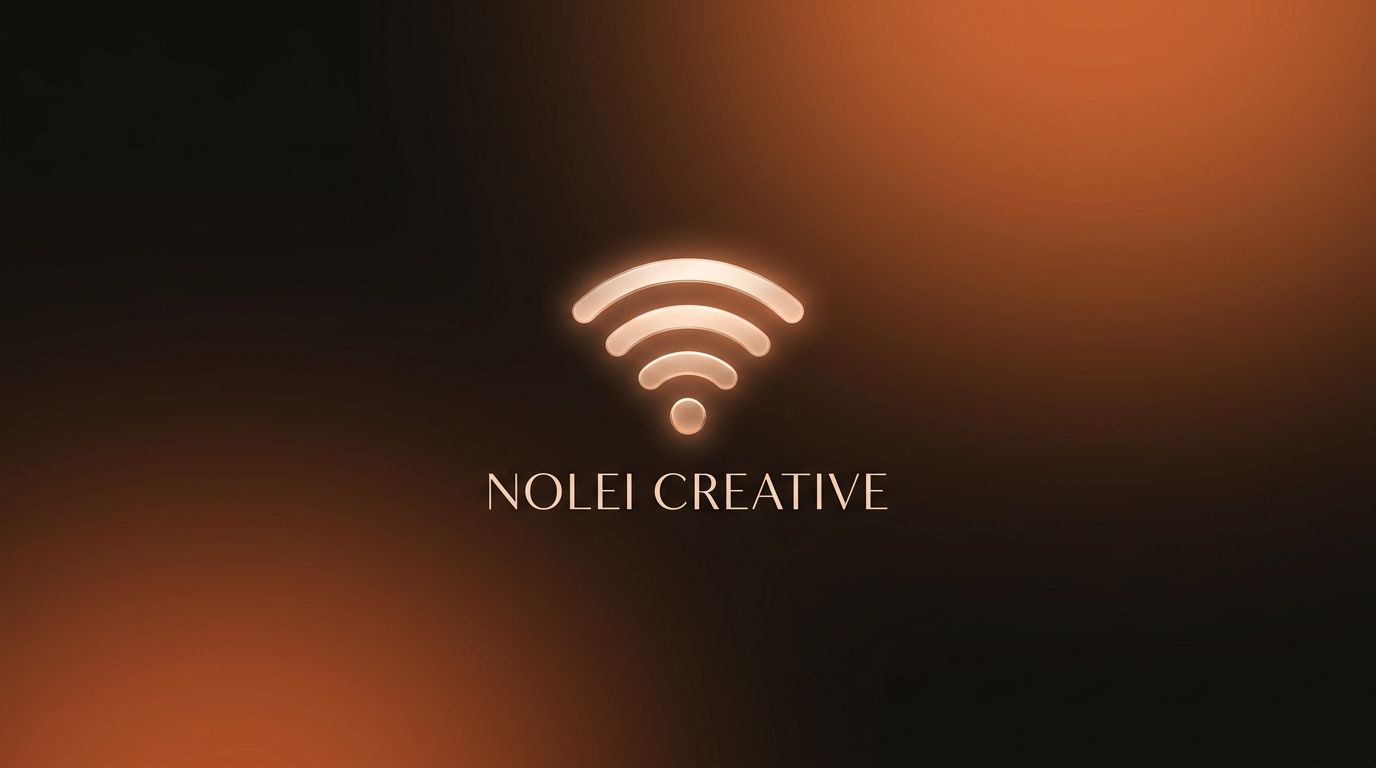
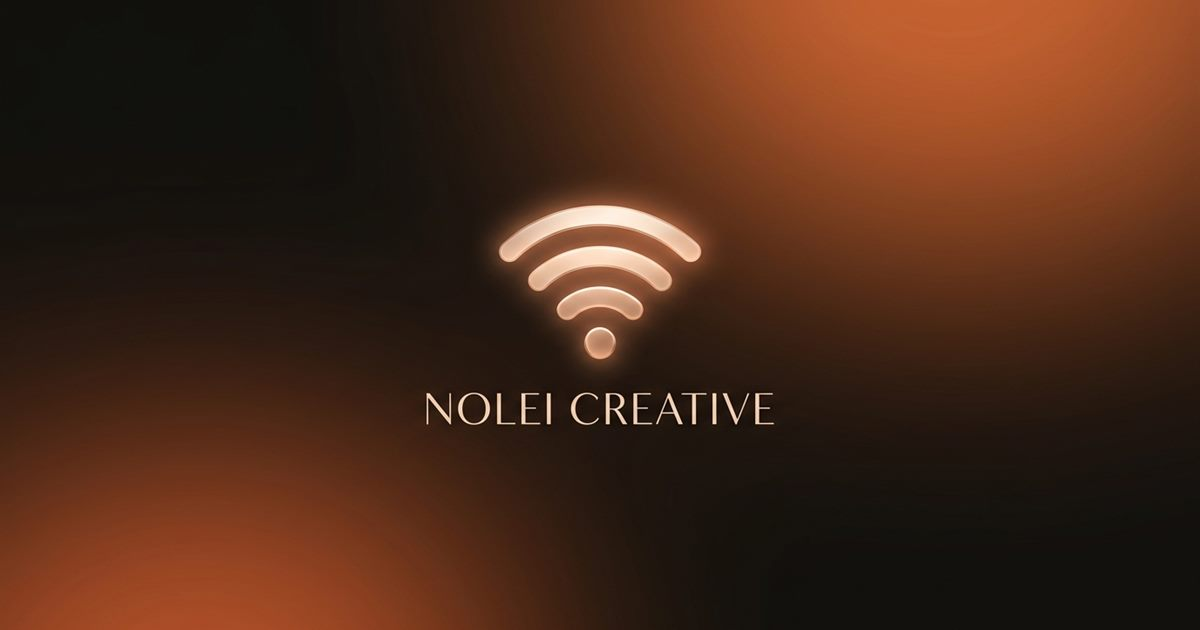
fix: otimizar imagens OG para <150KB compativel com WhatsApp e atualizar hero image de storytelling

Changed region(s): [[0.3392, 0.6032, 0.6475, 0.6937], [0.4008, 0.3016, 0.5858, 0.4825], [0.4933, 0.5127, 0.5242, 0.573]]

diff --git a/demo/storytelling-artesanato.html b/demo/storytelling-artesanato.html
@@ -19,8 +19,8 @@
   <meta property="og:url" content="https://nolei-creative-nfc.vercel.app/demo/storytelling-artesanato.html">
   <meta property="og:title" content="🧵 Storytelling da Peça & Certificado de Autenticidade — Ateliê Raízes do Cariri | Nolei NFC">
   <meta property="og:description" content="Aproxime da tag costurada na peça: conheça a história do mestre artesão, fotos do processo produtivo em couro legítimo e certificado digital numerado.">
-  <meta property="og:image" content="https://nolei-creative-nfc.vercel.app/assets/images/tag-couro-artesanato.jpg">
-  <meta property="og:image:secure_url" content="https://nolei-creative-nfc.vercel.app/assets/images/tag-couro-artesanato.jpg">
+  <meta property="og:image" content="https://nolei-creative-nfc.vercel.app/assets/images/tag-couro-artesanato.jpg?v=2">
+  <meta property="og:image:secure_url" content="https://nolei-creative-nfc.vercel.app/assets/images/tag-couro-artesanato.jpg?v=2">
   <meta property="og:image:type" content="image/jpeg">
   <meta property="og:image:width" content="1200">
   <meta property="og:image:height" content="630">
@@ -33,7 +33,13 @@
   <meta name="twitter:url" content="https://nolei-creative-nfc.vercel.app/demo/storytelling-artesanato.html">
   <meta name="twitter:title" content="🧵 Storytelling da Peça & Certificado de Autenticidade — Ateliê Raízes do Cariri | Nolei NFC">
   <meta name="twitter:description" content="Aproxime da tag costurada na peça: conheça a história do mestre artesão, fotos do processo produtivo em couro legítimo e certificado digital numerado.">
-  <meta name="twitter:image" content="https://nolei-creative-nfc.vercel.app/assets/images/tag-couro-artesanato.jpg">
+  <meta name="twitter:image" content="https://nolei-creative-nfc.vercel.app/assets/images/tag-couro-artesanato.jpg?v=2">
+
+  <!-- Primary Meta Tags -->
+
+  <!-- Open Graph / Facebook / WhatsApp Preview -->
+
+  <!-- Twitter / X Cards -->
   <link rel="preconnect" href="https://fonts.googleapis.com">
   <link rel="preconnect" href="https://fonts.gstatic.com" crossorigin>
   <link href="https://fonts.googleapis.com/css2?family=Cinzel:wght@600;700;800&family=Inter:wght@400;500;600;700&family=JetBrains+Mono:wght@500;700&display=swap" rel="stylesheet">
@@ -438,7 +444,7 @@
 
     <!-- Hero Card -->
     <div class="hero-card" id="storytelling">
-      <img src="https://images.unsplash.com/photo-1590874103328-eac38a683ce7?auto=format&fit=crop&w=700&q=80" alt="Bolsa em Couro Legítimo" class="hero-img">
+      <img src="../assets/images/tag-couro-artesanato.jpg" onerror="this.src='https://images.unsplash.com/photo-1590874103328-eac38a683ce7?auto=format&fit=crop&w=700&q=80'" alt="Etiqueta em Couro com Chip NFC Oculto" class="hero-img">
       <div class="hero-body">
         <span class="cert-badge">Certificado Phygital de Autenticidade</span>
         <h1 class="piece-title" id="piece-name">Bolsa Mandacaru — Couro Legítimo</h1>

diff --git a/empresa.html b/empresa.html
@@ -19,8 +19,8 @@
   <meta property="og:url" content="https://nolei-creative-nfc.vercel.app/empresa.html">
   <meta property="og:title" content="🏢 Portal Exclusivo do Estabelecimento — Nolei Phygital Hub">
   <meta property="og:description" content="Ambiente exclusivo da empresa: acompanhe métricas ao vivo, acesse seus módulos contratados, visualize seus pontos físicos NFC e edite suas credenciais comerciais.">
-  <meta property="og:image" content="https://nolei-creative-nfc.vercel.app/assets/images/og-image.jpg">
-  <meta property="og:image:secure_url" content="https://nolei-creative-nfc.vercel.app/assets/images/og-image.jpg">
+  <meta property="og:image" content="https://nolei-creative-nfc.vercel.app/assets/images/og-image.jpg?v=2">
+  <meta property="og:image:secure_url" content="https://nolei-creative-nfc.vercel.app/assets/images/og-image.jpg?v=2">
   <meta property="og:image:type" content="image/jpeg">
   <meta property="og:image:width" content="1200">
   <meta property="og:image:height" content="630">
@@ -33,7 +33,13 @@
   <meta name="twitter:url" content="https://nolei-creative-nfc.vercel.app/empresa.html">
   <meta name="twitter:title" content="🏢 Portal Exclusivo do Estabelecimento — Nolei Phygital Hub">
   <meta name="twitter:description" content="Ambiente exclusivo da empresa: acompanhe métricas ao vivo, acesse seus módulos contratados, visualize seus pontos físicos NFC e edite suas credenciais comerciais.">
-  <meta name="twitter:image" content="https://nolei-creative-nfc.vercel.app/assets/images/og-image.jpg">
+  <meta name="twitter:image" content="https://nolei-creative-nfc.vercel.app/assets/images/og-image.jpg?v=2">
+
+  <!-- Primary Meta Tags -->
+
+  <!-- Open Graph / Facebook / WhatsApp Preview -->
+
+  <!-- Twitter / X Cards -->
   <link rel="preconnect" href="https://fonts.googleapis.com">
   <link rel="preconnect" href="https://fonts.gstatic.com" crossorigin>
   <link href="https://fonts.googleapis.com/css2?family=Inter:wght@400;500;600;700;800&family=JetBrains+Mono:wght@500;700&display=swap" rel="stylesheet">

diff --git a/demo/painel-hotel.html b/demo/painel-hotel.html
@@ -19,8 +19,8 @@
   <meta property="og:url" content="https://nolei-creative-nfc.vercel.app/demo/painel-hotel.html">
   <meta property="og:title" content="🛎 Painel da Recepção & Fila de Chamados dos Quartos — Hotel Jardim Imperial | Nolei NFC">
   <meta property="og:description" content="Painel operacional do hotel: gerencie pedidos de Room Service, chamados de governança, agendamentos de café e transfers das suítes em tempo real.">
-  <meta property="og:image" content="https://nolei-creative-nfc.vercel.app/assets/images/cavalete-madeira-google.jpg">
-  <meta property="og:image:secure_url" content="https://nolei-creative-nfc.vercel.app/assets/images/cavalete-madeira-google.jpg">
+  <meta property="og:image" content="https://nolei-creative-nfc.vercel.app/assets/images/cavalete-madeira-google.jpg?v=2">
+  <meta property="og:image:secure_url" content="https://nolei-creative-nfc.vercel.app/assets/images/cavalete-madeira-google.jpg?v=2">
   <meta property="og:image:type" content="image/jpeg">
   <meta property="og:image:width" content="1200">
   <meta property="og:image:height" content="630">
@@ -33,7 +33,13 @@
   <meta name="twitter:url" content="https://nolei-creative-nfc.vercel.app/demo/painel-hotel.html">
   <meta name="twitter:title" content="🛎 Painel da Recepção & Fila de Chamados dos Quartos — Hotel Jardim Imperial | Nolei NFC">
   <meta name="twitter:description" content="Painel operacional do hotel: gerencie pedidos de Room Service, chamados de governança, agendamentos de café e transfers das suítes em tempo real.">
-  <meta name="twitter:image" content="https://nolei-creative-nfc.vercel.app/assets/images/cavalete-madeira-google.jpg">
+  <meta name="twitter:image" content="https://nolei-creative-nfc.vercel.app/assets/images/cavalete-madeira-google.jpg?v=2">
+
+  <!-- Primary Meta Tags -->
+
+  <!-- Open Graph / Facebook / WhatsApp Preview -->
+
+  <!-- Twitter / X Cards -->
   
   <link rel="preconnect" href="https://fonts.googleapis.com">
   <link rel="preconnect" href="https://fonts.gstatic.com" crossorigin>

diff --git a/admin/index.html b/admin/index.html
@@ -19,8 +19,8 @@
   <meta property="og:url" content="https://nolei-creative-nfc.vercel.app/admin/index.html">
   <meta property="og:title" content="✨ Hub de Demonstrações & Soluções Phygital — Nolei Creative">
   <meta property="og:description" content="Mostruário oficial de soluções prontas para 7 segmentos comerciais com displays inteligentes, tecnologia NFC e aplicações sem aplicativo.">
-  <meta property="og:image" content="https://nolei-creative-nfc.vercel.app/assets/images/og-image.jpg">
-  <meta property="og:image:secure_url" content="https://nolei-creative-nfc.vercel.app/assets/images/og-image.jpg">
+  <meta property="og:image" content="https://nolei-creative-nfc.vercel.app/assets/images/og-image.jpg?v=2">
+  <meta property="og:image:secure_url" content="https://nolei-creative-nfc.vercel.app/assets/images/og-image.jpg?v=2">
   <meta property="og:image:type" content="image/jpeg">
   <meta property="og:image:width" content="1200">
   <meta property="og:image:height" content="630">
@@ -33,7 +33,13 @@
   <meta name="twitter:url" content="https://nolei-creative-nfc.vercel.app/admin/index.html">
   <meta name="twitter:title" content="✨ Hub de Demonstrações & Soluções Phygital — Nolei Creative">
   <meta name="twitter:description" content="Mostruário oficial de soluções prontas para 7 segmentos comerciais com displays inteligentes, tecnologia NFC e aplicações sem aplicativo.">
-  <meta name="twitter:image" content="https://nolei-creative-nfc.vercel.app/assets/images/og-image.jpg">
+  <meta name="twitter:image" content="https://nolei-creative-nfc.vercel.app/assets/images/og-image.jpg?v=2">
+
+  <!-- Primary Meta Tags -->
+
+  <!-- Open Graph / Facebook / WhatsApp Preview -->
+
+  <!-- Twitter / X Cards -->
   <link rel="preconnect" href="https://fonts.googleapis.com">
   <link rel="preconnect" href="https://fonts.gstatic.com" crossorigin>
   <link href="https://fonts.googleapis.com/css2?family=Inter:wght@400;500;600;700;800&family=JetBrains+Mono:wght@500;700&display=swap" rel="stylesheet">

diff --git a/demo/dashboard-fidelidade.html b/demo/dashboard-fidelidade.html
@@ -19,8 +19,8 @@
   <meta property="og:url" content="https://nolei-creative-nfc.vercel.app/demo/dashboard-fidelidade.html">
   <meta property="og:title" content="📊 Dashboard de Retenção & LTV de Clientes — Café Origem | Nolei NFC">
   <meta property="og:description" content="Análise de recorrência e recompra: novos membros cadastrados, índice de retorno em 30 dias e aumento do faturamento médio por cliente fidelizado.">
-  <meta property="og:image" content="https://nolei-creative-nfc.vercel.app/assets/images/cartoes-mini-fidelidade.jpg">
-  <meta property="og:image:secure_url" content="https://nolei-creative-nfc.vercel.app/assets/images/cartoes-mini-fidelidade.jpg">
+  <meta property="og:image" content="https://nolei-creative-nfc.vercel.app/assets/images/cartoes-mini-fidelidade.jpg?v=2">
+  <meta property="og:image:secure_url" content="https://nolei-creative-nfc.vercel.app/assets/images/cartoes-mini-fidelidade.jpg?v=2">
   <meta property="og:image:type" content="image/jpeg">
   <meta property="og:image:width" content="1200">
   <meta property="og:image:height" content="630">
@@ -33,7 +33,13 @@
   <meta name="twitter:url" content="https://nolei-creative-nfc.vercel.app/demo/dashboard-fidelidade.html">
   <meta name="twitter:title" content="📊 Dashboard de Retenção & LTV de Clientes — Café Origem | Nolei NFC">
   <meta name="twitter:description" content="Análise de recorrência e recompra: novos membros cadastrados, índice de retorno em 30 dias e aumento do faturamento médio por cliente fidelizado.">
-  <meta name="twitter:image" content="https://nolei-creative-nfc.vercel.app/assets/images/cartoes-mini-fidelidade.jpg">
+  <meta name="twitter:image" content="https://nolei-creative-nfc.vercel.app/assets/images/cartoes-mini-fidelidade.jpg?v=2">
+
+  <!-- Primary Meta Tags -->
+
+  <!-- Open Graph / Facebook / WhatsApp Preview -->
+
+  <!-- Twitter / X Cards -->
   
   <link rel="preconnect" href="https://fonts.googleapis.com">
   <link rel="preconnect" href="https://fonts.gstatic.com" crossorigin>

diff --git a/demo/dashboard-hotel.html b/demo/dashboard-hotel.html
@@ -19,8 +19,8 @@
   <meta property="og:url" content="https://nolei-creative-nfc.vercel.app/demo/dashboard-hotel.html">
   <meta property="og:title" content="📊 Dashboard de Ocupação & Consumo por Suíte — Hotel Jardim Imperial | Nolei NFC">
   <meta property="og:description" content="Métricas de concierge: engajamento por quarto, itens mais solicitados no Room Service e receita média adicional gerada por aproximação.">
-  <meta property="og:image" content="https://nolei-creative-nfc.vercel.app/assets/images/cavalete-madeira-google.jpg">
-  <meta property="og:image:secure_url" content="https://nolei-creative-nfc.vercel.app/assets/images/cavalete-madeira-google.jpg">
+  <meta property="og:image" content="https://nolei-creative-nfc.vercel.app/assets/images/cavalete-madeira-google.jpg?v=2">
+  <meta property="og:image:secure_url" content="https://nolei-creative-nfc.vercel.app/assets/images/cavalete-madeira-google.jpg?v=2">
   <meta property="og:image:type" content="image/jpeg">
   <meta property="og:image:width" content="1200">
   <meta property="og:image:height" content="630">
@@ -33,7 +33,13 @@
   <meta name="twitter:url" content="https://nolei-creative-nfc.vercel.app/demo/dashboard-hotel.html">
   <meta name="twitter:title" content="📊 Dashboard de Ocupação & Consumo por Suíte — Hotel Jardim Imperial | Nolei NFC">
   <meta name="twitter:description" content="Métricas de concierge: engajamento por quarto, itens mais solicitados no Room Service e receita média adicional gerada por aproximação.">
-  <meta name="twitter:image" content="https://nolei-creative-nfc.vercel.app/assets/images/cavalete-madeira-google.jpg">
+  <meta name="twitter:image" content="https://nolei-creative-nfc.vercel.app/assets/images/cavalete-madeira-google.jpg?v=2">
+
+  <!-- Primary Meta Tags -->
+
+  <!-- Open Graph / Facebook / WhatsApp Preview -->
+
+  <!-- Twitter / X Cards -->
   
   <link rel="preconnect" href="https://fonts.googleapis.com">
   <link rel="preconnect" href="https://fonts.gstatic.com" crossorigin>

diff --git a/demo/dashboard-avaliacoes.html b/demo/dashboard-avaliacoes.html
@@ -19,8 +19,8 @@
   <meta property="og:url" content="https://nolei-creative-nfc.vercel.app/demo/dashboard-avaliacoes.html">
   <meta property="og:title" content="📈 Monitor de Reputação & Avaliações Google 5★ — Dra. Sofia Santos | Nolei NFC">
   <meta property="og:description" content="Gestão de autoridade e reputação: índice de satisfação no Google Maps, taxa de conversão 5 estrelas e ouvidoria interna sigilosa.">
-  <meta property="og:image" content="https://nolei-creative-nfc.vercel.app/assets/images/totem-google-reviews.jpg">
-  <meta property="og:image:secure_url" content="https://nolei-creative-nfc.vercel.app/assets/images/totem-google-reviews.jpg">
+  <meta property="og:image" content="https://nolei-creative-nfc.vercel.app/assets/images/totem-google-reviews.jpg?v=2">
+  <meta property="og:image:secure_url" content="https://nolei-creative-nfc.vercel.app/assets/images/totem-google-reviews.jpg?v=2">
   <meta property="og:image:type" content="image/jpeg">
   <meta property="og:image:width" content="1200">
   <meta property="og:image:height" content="630">
@@ -33,7 +33,13 @@
   <meta name="twitter:url" content="https://nolei-creative-nfc.vercel.app/demo/dashboard-avaliacoes.html">
   <meta name="twitter:title" content="📈 Monitor de Reputação & Avaliações Google 5★ — Dra. Sofia Santos | Nolei NFC">
   <meta name="twitter:description" content="Gestão de autoridade e reputação: índice de satisfação no Google Maps, taxa de conversão 5 estrelas e ouvidoria interna sigilosa.">
-  <meta name="twitter:image" content="https://nolei-creative-nfc.vercel.app/assets/images/totem-google-reviews.jpg">
+  <meta name="twitter:image" content="https://nolei-creative-nfc.vercel.app/assets/images/totem-google-reviews.jpg?v=2">
+
+  <!-- Primary Meta Tags -->
+
+  <!-- Open Graph / Facebook / WhatsApp Preview -->
+
+  <!-- Twitter / X Cards -->
   
   <link rel="preconnect" href="https://fonts.googleapis.com">
   <link rel="preconnect" href="https://fonts.gstatic.com" crossorigin>

diff --git a/demo/dashboard-restaurante.html b/demo/dashboard-restaurante.html
@@ -19,8 +19,8 @@
   <meta property="og:url" content="https://nolei-creative-nfc.vercel.app/demo/dashboard-restaurante.html">
   <meta property="og:title" content="📊 Dashboard Analítico & ROI por Mesa — Botânico Bistrô | Nolei NFC">
   <meta property="og:description" content="Telemetria em tempo real: faturamento estimado, giro de mesas, tempo médio de atendimento do garçom e taxa de retenção por aproximação NFC.">
-  <meta property="og:image" content="https://nolei-creative-nfc.vercel.app/assets/images/display-menu-acrilico.jpg">
-  <meta property="og:image:secure_url" content="https://nolei-creative-nfc.vercel.app/assets/images/display-menu-acrilico.jpg">
+  <meta property="og:image" content="https://nolei-creative-nfc.vercel.app/assets/images/display-menu-acrilico.jpg?v=2">
+  <meta property="og:image:secure_url" content="https://nolei-creative-nfc.vercel.app/assets/images/display-menu-acrilico.jpg?v=2">
   <meta property="og:image:type" content="image/jpeg">
   <meta property="og:image:width" content="1200">
   <meta property="og:image:height" content="630">
@@ -33,7 +33,13 @@
   <meta name="twitter:url" content="https://nolei-creative-nfc.vercel.app/demo/dashboard-restaurante.html">
   <meta name="twitter:title" content="📊 Dashboard Analítico & ROI por Mesa — Botânico Bistrô | Nolei NFC">
   <meta name="twitter:description" content="Telemetria em tempo real: faturamento estimado, giro de mesas, tempo médio de atendimento do garçom e taxa de retenção por aproximação NFC.">
-  <meta name="twitter:image" content="https://nolei-creative-nfc.vercel.app/assets/images/display-menu-acrilico.jpg">
+  <meta name="twitter:image" content="https://nolei-creative-nfc.vercel.app/assets/images/display-menu-acrilico.jpg?v=2">
+
+  <!-- Primary Meta Tags -->
+
+  <!-- Open Graph / Facebook / WhatsApp Preview -->
+
+  <!-- Twitter / X Cards -->
   
   <link rel="preconnect" href="https://fonts.googleapis.com">
   <link rel="preconnect" href="https://fonts.gstatic.com" crossorigin>

diff --git a/demo/painel-fidelidade.html b/demo/painel-fidelidade.html
@@ -19,8 +19,8 @@
   <meta property="og:url" content="https://nolei-creative-nfc.vercel.app/demo/painel-fidelidade.html">
   <meta property="og:title" content="🎁 Validador de Cupons & Pontos no Caixa — Café Origem | Nolei NFC">
   <meta property="og:description" content="Interface de caixa anti-fraude: validação instantânea de vouchers de resgate, lançamento de carimbos e consulta de fidelidade do cliente.">
-  <meta property="og:image" content="https://nolei-creative-nfc.vercel.app/assets/images/cartoes-mini-fidelidade.jpg">
-  <meta property="og:image:secure_url" content="https://nolei-creative-nfc.vercel.app/assets/images/cartoes-mini-fidelidade.jpg">
+  <meta property="og:image" content="https://nolei-creative-nfc.vercel.app/assets/images/cartoes-mini-fidelidade.jpg?v=2">
+  <meta property="og:image:secure_url" content="https://nolei-creative-nfc.vercel.app/assets/images/cartoes-mini-fidelidade.jpg?v=2">
   <meta property="og:image:type" content="image/jpeg">
   <meta property="og:image:width" content="1200">
   <meta property="og:image:height" content="630">
@@ -33,7 +33,13 @@
   <meta name="twitter:url" content="https://nolei-creative-nfc.vercel.app/demo/painel-fidelidade.html">
   <meta name="twitter:title" content="🎁 Validador de Cupons & Pontos no Caixa — Café Origem | Nolei NFC">
   <meta name="twitter:description" content="Interface de caixa anti-fraude: validação instantânea de vouchers de resgate, lançamento de carimbos e consulta de fidelidade do cliente.">
-  <meta name="twitter:image" content="https://nolei-creative-nfc.vercel.app/assets/images/cartoes-mini-fidelidade.jpg">
+  <meta name="twitter:image" content="https://nolei-creative-nfc.vercel.app/assets/images/cartoes-mini-fidelidade.jpg?v=2">
+
+  <!-- Primary Meta Tags -->
+
+  <!-- Open Graph / Facebook / WhatsApp Preview -->
+
+  <!-- Twitter / X Cards -->
   
   <link rel="preconnect" href="https://fonts.googleapis.com">
   <link rel="preconnect" href="https://fonts.gstatic.com" crossorigin>

diff --git a/demo/cardapio.html b/demo/cardapio.html
@@ -19,8 +19,8 @@
   <meta property="og:url" content="https://nolei-creative-nfc.vercel.app/demo/cardapio.html">
   <meta property="og:title" content="🌿 Cardápio Digital & Pedidos na Mesa — Botânico Bistrô | Nolei NFC">
   <meta property="og:description" content="Aproxime seu smartphone da mesa: consulte pratos com fotos em alta definição, chame o garçom, peça a conta e envie pedidos direto pelo WhatsApp sem baixar aplicativos.">
-  <meta property="og:image" content="https://nolei-creative-nfc.vercel.app/assets/images/display-menu-acrilico.jpg">
-  <meta property="og:image:secure_url" content="https://nolei-creative-nfc.vercel.app/assets/images/display-menu-acrilico.jpg">
+  <meta property="og:image" content="https://nolei-creative-nfc.vercel.app/assets/images/display-menu-acrilico.jpg?v=2">
+  <meta property="og:image:secure_url" content="https://nolei-creative-nfc.vercel.app/assets/images/display-menu-acrilico.jpg?v=2">
   <meta property="og:image:type" content="image/jpeg">
   <meta property="og:image:width" content="1200">
   <meta property="og:image:height" content="630">
@@ -33,7 +33,13 @@
   <meta name="twitter:url" content="https://nolei-creative-nfc.vercel.app/demo/cardapio.html">
   <meta name="twitter:title" content="🌿 Cardápio Digital & Pedidos na Mesa — Botânico Bistrô | Nolei NFC">
   <meta name="twitter:description" content="Aproxime seu smartphone da mesa: consulte pratos com fotos em alta definição, chame o garçom, peça a conta e envie pedidos direto pelo WhatsApp sem baixar aplicativos.">
-  <meta name="twitter:image" content="https://nolei-creative-nfc.vercel.app/assets/images/display-menu-acrilico.jpg">
+  <meta name="twitter:image" content="https://nolei-creative-nfc.vercel.app/assets/images/display-menu-acrilico.jpg?v=2">
+
+  <!-- Primary Meta Tags -->
+
+  <!-- Open Graph / Facebook / WhatsApp Preview -->
+
+  <!-- Twitter / X Cards -->
  
  <!-- Google Fonts -->
  <link rel="preconnect" href="https://fonts.googleapis.com">

diff --git a/demo/fidelidade.html b/demo/fidelidade.html
@@ -19,8 +19,8 @@
   <meta property="og:url" content="https://nolei-creative-nfc.vercel.app/demo/fidelidade.html">
   <meta property="og:title" content="☕ Clube Fidelidade & 10 Carimbos Digitais — Café Origem | Nolei NFC">
   <meta property="og:description" content="Aproxime do display no balcão e acumule carimbos digitais sem baixar aplicativo. Acompanhe seus pontos, suba de nível e resgate prêmios exclusivos no caixa.">
-  <meta property="og:image" content="https://nolei-creative-nfc.vercel.app/assets/images/cartoes-mini-fidelidade.jpg">
-  <meta property="og:image:secure_url" content="https://nolei-creative-nfc.vercel.app/assets/images/cartoes-mini-fidelidade.jpg">
+  <meta property="og:image" content="https://nolei-creative-nfc.vercel.app/assets/images/cartoes-mini-fidelidade.jpg?v=2">
+  <meta property="og:image:secure_url" content="https://nolei-creative-nfc.vercel.app/assets/images/cartoes-mini-fidelidade.jpg?v=2">
   <meta property="og:image:type" content="image/jpeg">
   <meta property="og:image:width" content="1200">
   <meta property="og:image:height" content="630">
@@ -33,7 +33,13 @@
   <meta name="twitter:url" content="https://nolei-creative-nfc.vercel.app/demo/fidelidade.html">
   <meta name="twitter:title" content="☕ Clube Fidelidade & 10 Carimbos Digitais — Café Origem | Nolei NFC">
   <meta name="twitter:description" content="Aproxime do display no balcão e acumule carimbos digitais sem baixar aplicativo. Acompanhe seus pontos, suba de nível e resgate prêmios exclusivos no caixa.">
-  <meta name="twitter:image" content="https://nolei-creative-nfc.vercel.app/assets/images/cartoes-mini-fidelidade.jpg">
+  <meta name="twitter:image" content="https://nolei-creative-nfc.vercel.app/assets/images/cartoes-mini-fidelidade.jpg?v=2">
+
+  <!-- Primary Meta Tags -->
+
+  <!-- Open Graph / Facebook / WhatsApp Preview -->
+
+  <!-- Twitter / X Cards -->
  
  <!-- Google Fonts -->
  <link rel="preconnect" href="https://fonts.googleapis.com">

diff --git a/demo/avaliacao.html b/demo/avaliacao.html
@@ -19,8 +19,8 @@
   <meta property="og:url" content="https://nolei-creative-nfc.vercel.app/demo/avaliacao.html">
   <meta property="og:title" content="⭐ Avaliações Google 5 Estrelas com Filtro Inteligente — Dra. Sofia Santos | Nolei NFC">
   <meta property="og:description" content="Aproxime do totem de balcão: avalie sua experiência no Google Maps em menos de 30 segundos ou envie sugestões em canal confidencial à gerência.">
-  <meta property="og:image" content="https://nolei-creative-nfc.vercel.app/assets/images/totem-google-reviews.jpg">
-  <meta property="og:image:secure_url" content="https://nolei-creative-nfc.vercel.app/assets/images/totem-google-reviews.jpg">
+  <meta property="og:image" content="https://nolei-creative-nfc.vercel.app/assets/images/totem-google-reviews.jpg?v=2">
+  <meta property="og:image:secure_url" content="https://nolei-creative-nfc.vercel.app/assets/images/totem-google-reviews.jpg?v=2">
   <meta property="og:image:type" content="image/jpeg">
   <meta property="og:image:width" content="1200">
   <meta property="og:image:height" content="630">
@@ -33,7 +33,13 @@
   <meta name="twitter:url" content="https://nolei-creative-nfc.vercel.app/demo/avaliacao.html">
   <meta name="twitter:title" content="⭐ Avaliações Google 5 Estrelas com Filtro Inteligente — Dra. Sofia Santos | Nolei NFC">
   <meta name="twitter:description" content="Aproxime do totem de balcão: avalie sua experiência no Google Maps em menos de 30 segundos ou envie sugestões em canal confidencial à gerência.">
-  <meta name="twitter:image" content="https://nolei-creative-nfc.vercel.app/assets/images/totem-google-reviews.jpg">
+  <meta name="twitter:image" content="https://nolei-creative-nfc.vercel.app/assets/images/totem-google-reviews.jpg?v=2">
+
+  <!-- Primary Meta Tags -->
+
+  <!-- Open Graph / Facebook / WhatsApp Preview -->
+
+  <!-- Twitter / X Cards -->
   
   <!-- Google Fonts -->
   <link rel="preconnect" href="https://fonts.googleapis.com">
